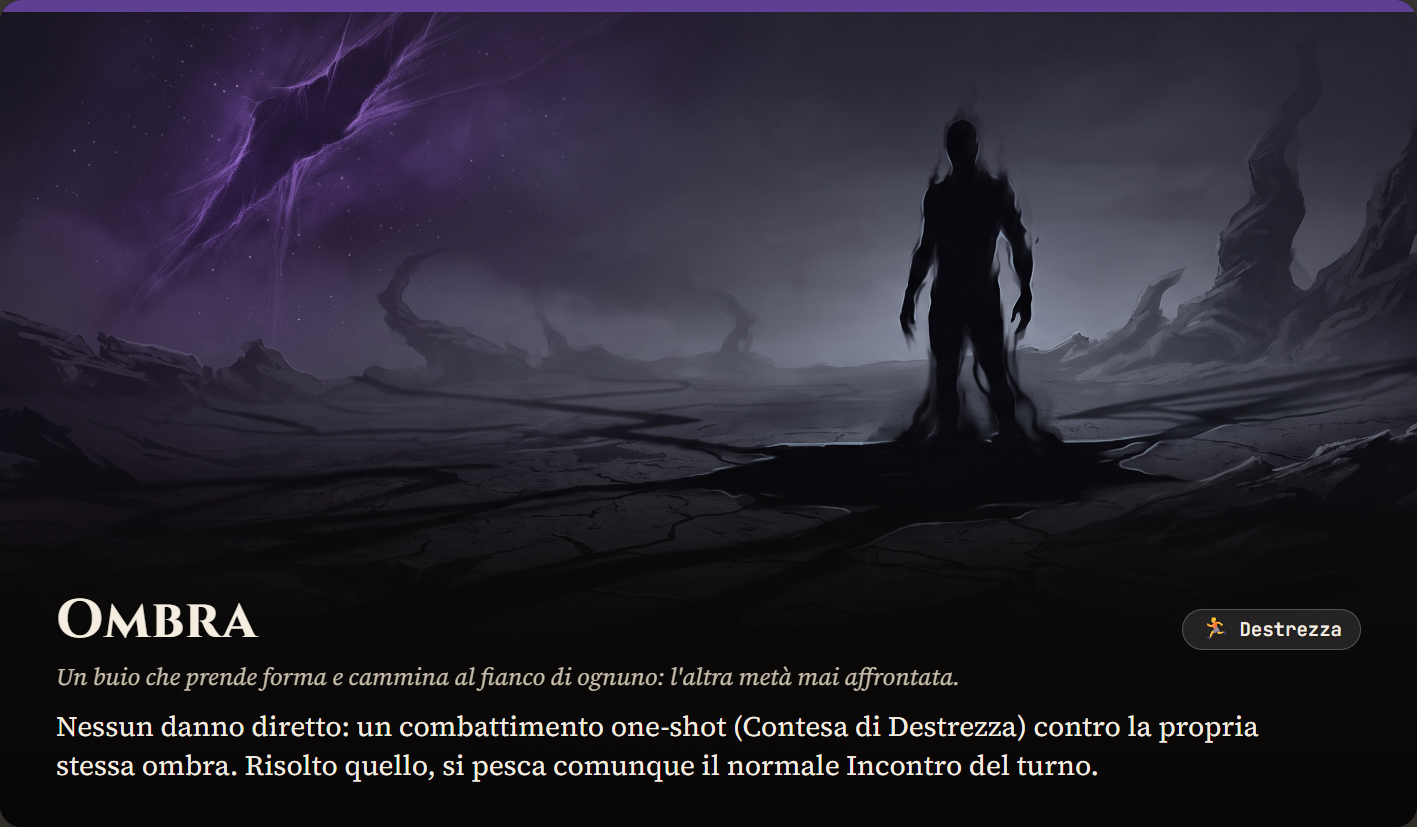
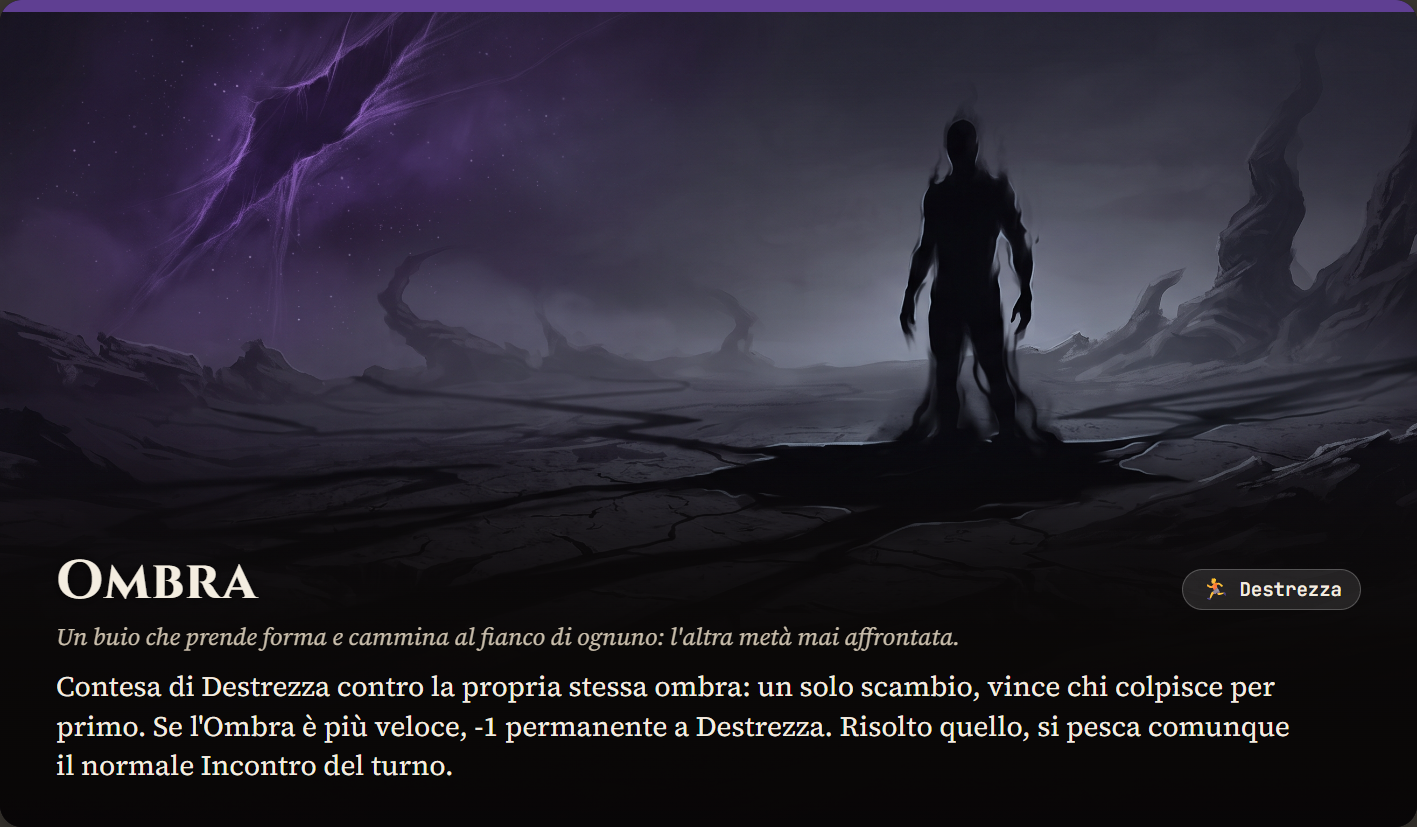
Corregge Bagliore del Sole, Spettro, Ombra, Finali di gruppo e Buona Sorte
Bagliore del Sole (ar_bagliore): era uno scontro contro un nemico
finto, passando per applyAnimaLoss che innesca sempre un check di
Corruzione — sbagliato, la carta è "luce di giudizio", non
corruzione. Ridisegnata come semplice check di Anima: se fallito, 1
danno diretto a Punti Vita, senza toccare Anima né Corruzione.

Spettro (nm_spettro): il testo diceva "risucchia la forza vitale"
ma il danno passante colpiva i Punti Vita nonostante lo scontro sia
di Intelletto — incoerente con lo schema usato ovunque nel gioco
("scontro basato su X toglie X"). Cambiato damageStat da 'pv' a
'int' e riscritto il testo ("risucchia la mente, svuotandola").

Ombra (piano): il duello contro la propria ombra girava fino a 10
round con danno passante ai Punti Vita — non corrispondeva al testo
("nessun danno diretto", "one-shot"). Ridisegnato come singolo check
di Destrezza: successo = l'ombra si dissolve, fallimento = -1
PERMANENTE a Destrezza (stesso schema delle altre Contese di
caratteristica del gioco). Rimossa resolveAutoCombat(), rimasta
orfana dopo la riscrittura.

Finali (Via di Casa/Antro della Creatura/Eden Alieno): cliccare il
bottone di vittoria di UN personaggio chiudeva subito il modal
(closeModal() nel click handler), impedendo di cliccare gli altri —
di fatto vinceva solo chi cliccava per primo, anche se l'interfaccia
suggeriva una scelta per personaggio. Sostituito con un bottone unico
"Il gruppo torna a casa" che fa vincere tutti i presenti insieme, in
[…]

Changed region(s): [[0.0311, 0.6651, 0.9005, 0.9371], [0.8073, 0.6651, 0.9626, 0.786]]

diff --git a/index.html b/index.html
@@ -330,7 +330,7 @@ const PIANI = [
   P("tempo","Tempo","entropia","int",false,"Chi fallisce un check di Intelletto subisce un depotenziamento temporaneo casuale: un d6 decide su quale delle sei caratteristiche."),
   P("cenere","Cenere","entropia","for",false,"Chi fallisce un check di Forza perde un oggetto, sbriciolato dal vento."),
   P("oblio","Oblio","entropia","int",false,"Chi fallisce un check di Intelletto dimentica di colpo uno spell o un'abilità — un depotenziamento temporaneo come gli altri, guarisce solo in un piano di Recupero."),
-  P("ombra","Ombra","entropia","des",false,"Nessun danno diretto: un combattimento one-shot (Contesa di Destrezza) contro la propria stessa ombra. Risolto quello, si pesca comunque il normale Incontro del turno."),
+  P("ombra","Ombra","entropia","des",false,"Contesa di Destrezza contro la propria stessa ombra: un solo scambio, vince chi colpisce per primo. Se l'Ombra è più veloce, -1 permanente a Destrezza. Risolto quello, si pesca comunque il normale Incontro del turno."),
   P("porte_di_brace","Le Porte di Brace (Demoniaco, 1° girone)","demoniaco","for_or_int",false,"Nessuna Corruzione qui. Niente Furtività: si affronta un Incontro a ogni turno, senza eccezioni.",null,{girone:1}),
   P("baratro_in_fiamme","Il Baratro in Fiamme (Demoniaco, 2° girone)","demoniaco","for_or_int",false,"Si perde passivamente 1 Anima solo per esserci passati (Corruzione). Niente Furtività: un Incontro a ogni turno, senza eccezioni.",null,{girone:2}),
   P("gelo_dellabisso","Il Gelo dell'Abisso (Demoniaco, 3° girone)","demoniaco","for_or_int",false,"Si perde passivamente 1 Anima solo per esserci passati (Corruzione). Niente Furtività: un Incontro a ogni turno, senza eccezioni.",null,{girone:3}),
@@ -385,7 +385,7 @@ const INCONTRI = {
   nonmorti:[
     C("nm_nessuno","Nessun evento","nessun","Il piano è insolitamente silenzioso. Nessun effetto."),
     C("nm_appestato","Appestato","incontro","Un cadavere ambulante cosparge languore e pustole a ogni contatto. Scontro di Forza (valore nemico pari al girone: 1°, 2° o 3°).",{check:"for",gravity:"level"}),
-    C("nm_spettro","Spettro","incontro","Risucchia la forza vitale e paralizza col terrore. Scontro di Intelletto (valore nemico pari al girone: 1°, 2° o 3°).",{check:"int",gravity:"level",damageStat:"pv"}),
+    C("nm_spettro","Spettro","incontro","Risucchia la mente, svuotandola. Scontro di Intelletto (valore nemico pari al girone: 1°, 2° o 3°; danno passante a Intelletto, non a Punti Vita).",{check:"int",gravity:"level",damageStat:"int"}),
     C("nm_nugolo","Nugolo necrotico","incontro","Uno sciame di ratti e insetti in decomposizione assale in massa. Scontro di Destrezza: 3 creature di valore 1 (2 di valore 2 nel 3° girone).",{check:"des",gravity:"level-1",swarm:"auto"}),
     C("nm_tomba","Tomba saccheggiabile","check","Una tomba intatta. Check di Destrezza: se superato, trovi un oggetto; se fallito, una trappola ti ferisce (-1 PV).",{check:"des",onFail:{type:"damage",n:1},onSuccess:{type:"item"}}),
     C("nm_nebbia","Nebbia di decomposizione","check","L'aria stessa marcisce e appesantisce i polmoni. Check di Forza: se fallito, -1 PV.",{check:"for",onFail:{type:"damage",n:1,group:true}}),
@@ -424,7 +424,7 @@ const INCONTRI = {
     C("ar_statua","Statua di Stasi","check","Il tempo si ferma per un oggetto, proteggendolo per sempre da perdite, furti e distruzione.",{statuaCard:true}),
     C("ar_benedizione","Benedizione","ricompensa","Una cura o protezione tipica del piano Sacro. Ricompensa: +1 PV a tutti i presenti, e un depotenziamento temporaneo guarito a un personaggio.",{reward:{type:"groupHealCure"}}),
     C("ar_geometria","Geometria perfetta","incontro","Un'entità di Ordine assoluto punisce ogni imperfezione. Scontro forte sulla statistica nativa del piano (valore nemico 3).",{check:"native",gravity:1,forte:true}),
-    C("ar_bagliore","Bagliore del Sole","incontro","Una luce di giudizio rivela ogni colpa. Scontro di Anima (valore nemico 2).",{check:"anima",gravity:0}),
+    C("ar_bagliore","Bagliore del Sole","check","Una luce di giudizio rivela ogni colpa. Check di Anima: se fallito, 1 danno diretto a Punti Vita — non è un check di Corruzione, è la luce del giudizio a colpire.",{check:"anima",onFail:{type:"damage",n:1}}),
     C("ar_pattodonore","Patto d'Onore","ricompensa","Da qui in poi, ogni vittoria del gruppo contro l'Entropia farà trovare un oggetto. Ricompensa: sigilla il patto.",{reward:{type:"pattoOnore"}}),
     C("ar_paradosso","Paradosso logico","check","Un enigma a struttura rigida e senza margine d'errore. Check di Intelletto: se fallito, perdita del turno.",{check:"int",onFail:{type:"loseTurn"}}),
     C("ar_ingranaggio","Ingranaggio inceppato","check","Un ingranaggio si blocca all'improvviso. Check di Destrezza: se fallito, perdita di un oggetto casuale.",{check:"des",onFail:{type:"loseItem"}}),
@@ -1669,7 +1669,13 @@ const PLANE_EFFECTS = {
   tempo:(p,acts,ctx)=>{ acts.forEach(c=>{ const r=checkRoll(c,'int'); logMsg(`⏳ ${c.name} check Intelletto: ${r.roll} vs ${r.val} → ${r.success?'superato':'FALLITO'}.`); if(!r.success){ const stat=STATS[Math.floor(Math.random()*6)]; applyTempDebuff(c,stat); } }); },
   cenere:(p,acts,ctx)=>{ acts.forEach(c=>{ const r=checkRoll(c,'for'); logMsg(`💨 ${c.name} check Forza: ${r.roll} vs ${r.val} → ${r.success?'superato':'FALLITO'}.`); if(!r.success){ const idx=pickLosableItemIndex(c); if(idx>=0){ const lost=c.inventory.splice(idx,1)[0]; logMsg(`💨 ${c.name} perde ${OGGETTI_BY_ID[lost]?.name} (Cenere).`); } else if(c.protectedItemId && c.inventory.length){ logMsg(`⏳ ${c.name}: il tempo fermo protegge l'unico oggetto rimasto dalla Cenere.`); } } }); },
   oblio:(p,acts,ctx)=>{ acts.forEach(c=>{ const r=checkRoll(c,'int'); logMsg(`🌫 ${c.name} check Intelletto: ${r.roll} vs ${r.val} → ${r.success?'superato':'FALLITO'}.`); if(!r.success){ if(c.spells.length){ logMsg(`🌫 ${c.name} dimentica temporaneamente uno spell (rimane in mano ma non utilizzabile fino a Recupero — gestione manuale).`);} else applyTempDebuff(c,'int'); } }); },
-  ombra:(p,acts,ctx)=>{ acts.forEach(c=>{ resolveAutoCombat([c],[{name:'La tua Ombra (Ombra)', statKey:'des', value:2}], ctx); }); },
+  ombra:(p,acts,ctx)=>{
+    acts.forEach(c=>{
+      const r=checkRoll(c,'des');
+      logMsg(`🌑 ${c.name} contro la propria Ombra — check Destrezza: ${r.roll} vs ${r.val} → ${r.success?'colpisce per primo, l\'Ombra si dissolve':'l\'Ombra è più veloce'}.`, r.success?'good':'warn');
+      if(!r.success) applyPermDebuff(c,'des');
+    });
+  },
   none:()=>{},
 };
 function resolveAttack(c, stat){
@@ -1749,28 +1755,6 @@ function passthroughTargets(acts){
     return true;
   });
   return eligible.length ? eligible : acts;
-}
-function resolveAutoCombat(acts, entityDefs, ctx){
-  if(!acts || acts.length===0) return; // nessuno presente/cosciente: niente da risolvere
-  // Combattimento one-shot risolto automaticamente giro dopo giro (usato per effetti intrinseci di piano, es. Ombra),
-  // senza passare dall'interfaccia interattiva del normale Incontro del turno.
-  const entities = entityDefs.map(e=>({...e, hp: e.hp!==undefined?e.hp:e.value}));
-  let rounds=0;
-  while(entities.some(e=>e.hp>0) && rounds<10){
-    rounds++;
-    let teamDmg=0, entityDmg=0;
-    acts.forEach(c=>{
-      const stat = entities[0].statKey;
-      const a=resolveAttack(c,stat);
-      teamDmg+=a.dmg;
-    });
-    entities.forEach(e=>{ if(e.hp<=0) return; const r=d6(); if(r<=e.value) entityDmg+=e.value; });
-    let remaining=teamDmg;
-    entities.forEach(e=>{ if(remaining<=0||e.hp<=0) return; const take=Math.min(remaining,e.hp); e.hp-=take; remaining-=take; });
-    const passThrough=Math.max(0, entityDmg-teamDmg);
-    if(passThrough>0){ let idx=0; for(let i=0;i<passThrough;i++){ applyCombatPassthrough(acts[idx%acts.length],'pv',{...ctx, combat:true}); idx++; } }
-  }
-  logMsg(`⚔ ${acts.map(c=>c.name).join(', ')} risolve un combattimento automatico contro ${entityDefs[0].name} in ${rounds} giro/i.`);
 }
 function reshuffleMazzoPiani(){
   if(inStasi()){ logMsg('⏳ Qui nulla può cambiare: il mazzo Piani non è manipolabile (Stasi).', 'warn'); return; }
@@ -2944,7 +2928,10 @@ function openPianoTerrenoModal(dest){
   let body = pianoTerrenoHeroArt(dest);
   if(!hasComposedCard){ body += `<div class="card-body"><h3>🏔 ${escapeHtml(dest.name)}</h3><p>${escapeHtml(dest.text)}</p></div>`; }
   if(dest.kind==='finaleA'){
-    body += `<div class="row mt1">${activeChars().map(c=>`<button class="primary small" data-win="${c.id}">${c.name} torna a casa (vittoria)</button>`).join('')}<button id="btnPTClose">Nessuno per ora</button></div>`;
+    // un vero Finale (A/B/C) è una vittoria di TUTTO il gruppo insieme, non una scelta
+    // individuale — solo le uscite personali (Druido/Sciamano, kind:'terrestre' più sotto)
+    // portano via un solo personaggio alla volta.
+    body += `<div class="row mt1"><button class="primary" id="btnWinAll">Il gruppo torna a casa (vittoria)</button><button id="btnPTClose">Nessuno per ora</button></div>`;
   } else if(dest.kind==='boss'){
     body += `<div class="row mt1"><button class="primary" id="btnStartBoss">Affronta ${dest.boss.name}</button><button id="btnPTClose">Ignora e continua</button></div>`;
   } else if(dest.kind==='bonus'){
@@ -2971,6 +2958,13 @@ function bindPianoTerrenoModal(dest){
     const c=state.players.find(x=>x.id===b.dataset.win); c.status='won'; c.winType=dest.name;
     logMsg(`🏆 ${c.name} VINCE! (${dest.name})`,'good'); closeModal(); state.currentDraw=null; render();
   });
+  const winAllBtn=document.getElementById('btnWinAll');
+  if(winAllBtn) winAllBtn.onclick=()=>{
+    const winners = activeChars();
+    winners.forEach(c=>{ c.status='won'; c.winType=dest.name; });
+    logMsg(`🏆 Il gruppo intero VINCE insieme! (${dest.name}): ${winners.map(c=>c.name).join(', ')}.`,'good');
+    closeModal(); state.currentDraw=null; render();
+  };
   const closeBtn=document.getElementById('btnPTClose');
   if(closeBtn) closeBtn.onclick=()=>{
     if(dest.kind==='terrestre'){
@@ -3097,8 +3091,9 @@ function renderBossFight(dest, boss, stat, onWin){
   const cb = { entities:[{name:boss.name, statKey:stat, value:boss.value, hp:boss.value}], rounds:0, checkStat:stat, damageStat:'pv' };
   state.currentDraw.combat = cb;
   const plane = {family:'generico', type:'etereo', name:boss.name};
-  function draw(){
-    document.getElementById('bossArea').innerHTML = `<p>${boss.name}: PV ${cb.entities[0].hp}/${boss.value}</p><div class="row"><button class="primary" id="bfRound">Tira un giro</button>${cb.rounds>0?'<button id="bfFlee">Ritirati</button>':''}</div>`;
+  function draw(lastRound){
+    const lastHtml = lastRound ? `<div class="panel" style="margin:.5rem 0;"><p class="hint">${lastRound.summary}</p>${lastRound.rows.map(r=>`<div>${escapeHtml(r)}</div>`).join('')}</div>` : '';
+    document.getElementById('bossArea').innerHTML = `<p>${boss.name}: PV ${cb.entities[0].hp}/${boss.value}</p>${lastHtml}<div class="row"><button class="primary" id="bfRound">Tira un giro</button>${cb.rounds>0?'<button id="bfFlee">Ritirati</button>':''}</div>`;
     document.getElementById('bfRound').onclick=()=>{
       const fighters = activeChars();
       if(fighters.length===0){
@@ -3106,11 +3101,11 @@ function renderBossFight(dest, boss, stat, onWin){
         closeModal(); state.currentDraw=null; render();
         return;
       }
-      fightRoundGeneric(cb, fighters, plane, {damageStat:'pv'});
+      const roundResult = fightRoundGeneric(cb, fighters, plane, {damageStat:'pv'});
       if(cb.entities[0].hp<=0){
         logMsg(`🏆 ${boss.name} è sconfitto!`,'good');
         onWin();
-      } else draw();
+      } else draw(roundResult);
     };
     const fleeBtn=document.getElementById('bfFlee');
     if(fleeBtn) fleeBtn.onclick=()=>{ logMsg('↩ Il gruppo si ritira dallo scontro col boss.'); closeModal(); state.currentDraw=null; render(); };
@@ -3121,22 +3116,29 @@ function fightRoundGeneric(cb, acts, plane, opts){
   if(!acts || acts.length===0) return; // guardia di sicurezza: il chiamante deve controllare prima di invocare
   cb.rounds++;
   let teamDmg=0, entityDmg=0;
+  const rows=[];
   acts.forEach(c=>{
     const a=resolveAttack(c,cb.checkStat);
     teamDmg+=a.dmg;
-    logMsg(`　 🙂 ${c.name}: ${a.dardo?'Dardo Incantato':'tiro '+a.roll} ${a.hit?'✔':'✘'}${a.dmg?` (${a.dmg} dmg)`:''}`);
+    const label = `🙂 ${c.name}: ${a.dardo?'Dardo Incantato':'tiro '+a.roll} ${a.hit?'✔':'✘'}${a.dmg?` (${a.dmg} dmg)`:''}`;
+    rows.push(label);
+    logMsg('　 '+label);
   });
   cb.entities.forEach(e=>{
     if(e.hp<=0) return;
     const r=d6(); const hit=r<=e.value;
     if(hit) entityDmg+=e.value;
-    logMsg(`　 👹 ${e.name}: tiro ${r} ${hit?'✔':'✘'}`);
+    const label = `👹 ${e.name}: tiro ${r} ${hit?'✔':'✘'}`;
+    rows.push(label);
+    logMsg('　 '+label);
   });
   let remaining=teamDmg;
   cb.entities.forEach(e=>{ if(remaining<=0||e.hp<=0) return; const take=Math.min(remaining,e.hp); e.hp-=take; remaining-=take; });
   const passThrough=Math.max(0,entityDmg-teamDmg);
-  logMsg(`⚔ Giro ${cb.rounds}: team ${teamDmg} dmg, entità ${entityDmg} dmg (passano ${passThrough}).`);
+  const summary = `⚔ Giro ${cb.rounds}: team ${teamDmg} dmg, entità ${entityDmg} dmg (passano ${passThrough}).`;
+  logMsg(summary);
   if(passThrough>0){ const targets=passthroughTargets(acts); let idx=0; for(let i=0;i<passThrough;i++){ const t=targets[idx%targets.length]; applyCombatPassthrough(t, opts.damageStat||'pv', {family:plane.family, planeId:plane.id, combat:true}); idx++; } }
+  return { summary, rows };
 }
 
 /* ---------- Character management modal (Gestisci) ---------- */
@@ -3802,11 +3804,7 @@ function openHealOtherModal(caster, idx, sp, r, mult){
   return true;
 }
 function openGrantRerollModal(caster, idx, sp, r){
-  const targets = activeChars().filter(x=>x.id!==caster.id);
-  if(targets.length===0){
-    logMsg(`⚠ ${sp.name}: nessun compagno presente a cui concedere il reroll — lo spell non si consuma.`,'warn');
-    return true;
-  }
+  const targets = activeChars(); // include anche il lanciatore: può tenerlo per sé
   openModal(`<h3>🍀 ${escapeHtml(sp.name)}</h3><p>Scegli chi riceve +${r.n||1} reroll (non ricaricabile):</p>
     <div class="row">${targets.map(t=>`<button class="small" data-grantreroll="${t.id}">${escapeHtml(t.name)}</button>`).join('')}</div>`);
   document.querySelectorAll('[data-grantreroll]').forEach(b=>b.onclick=()=>{
